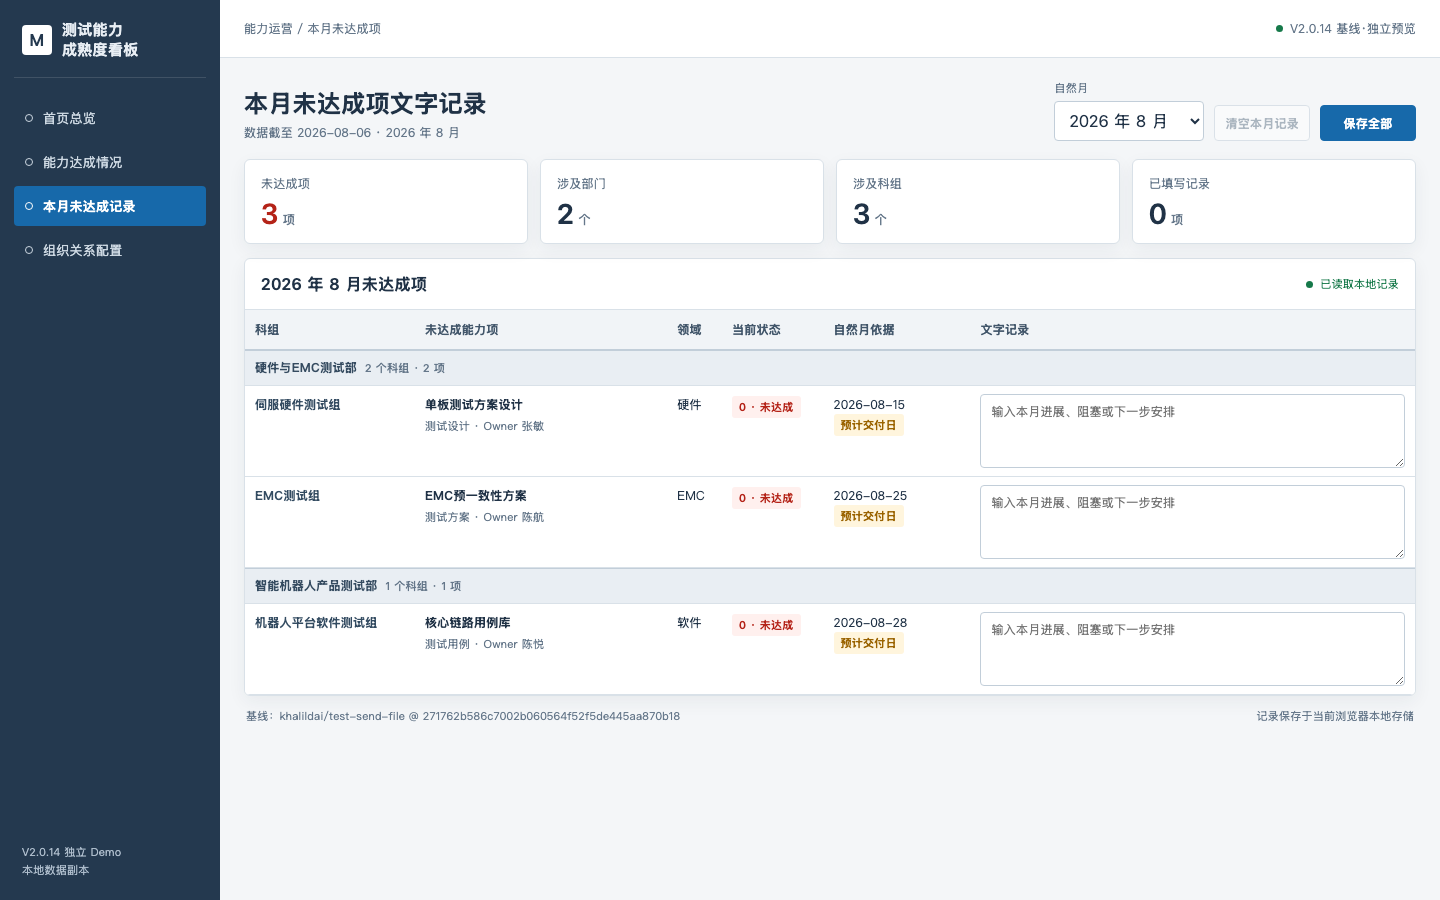
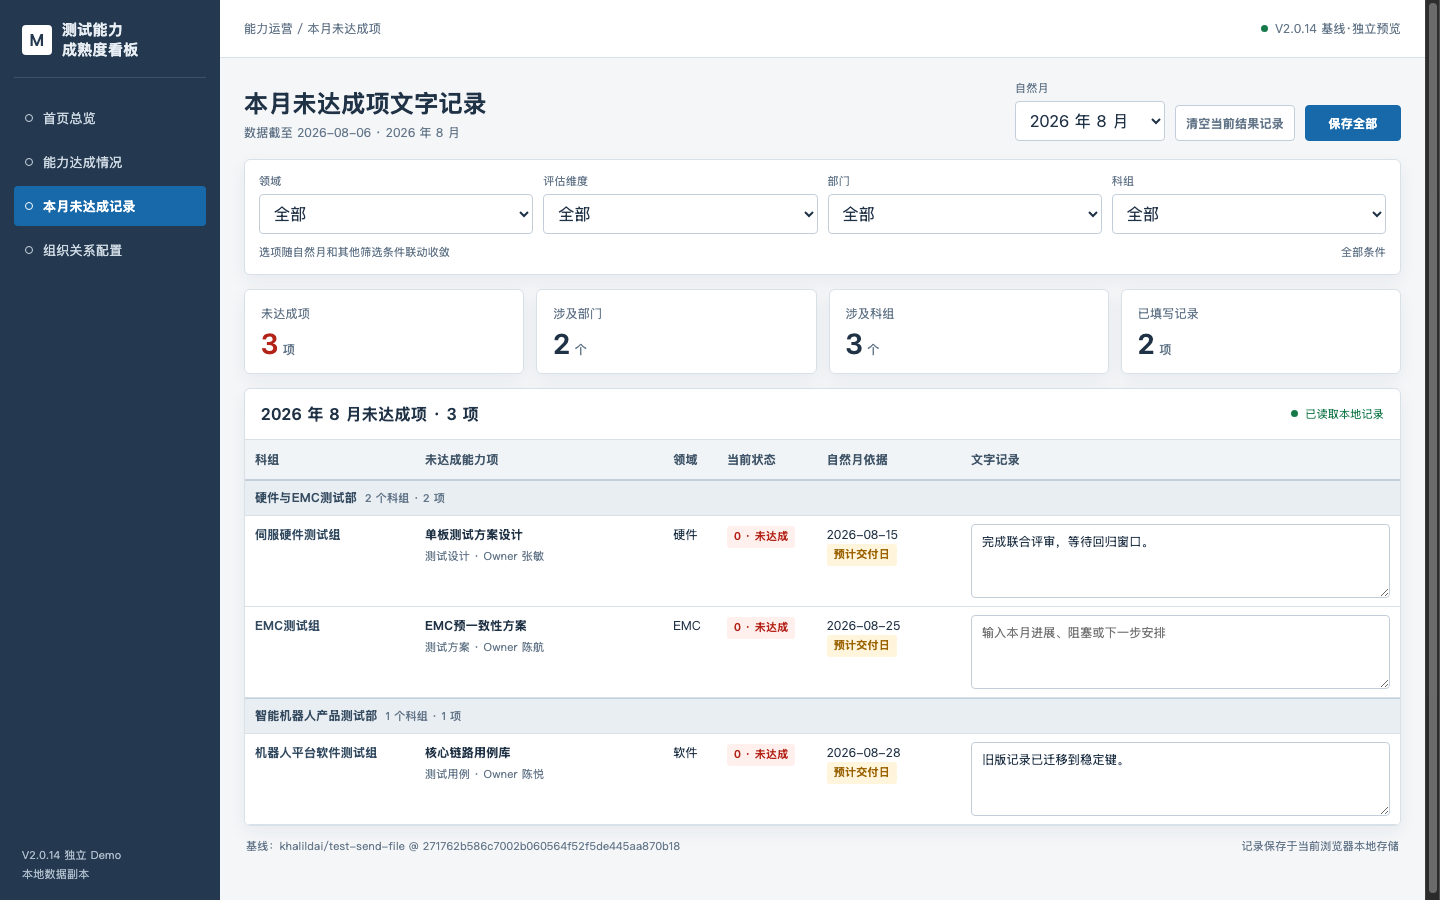
update task20 demo with linked filters

diff --git a/task20-v2014-monthly-gap-demo/V2.0.14-本月未达成项文字记录-demo.html b/task20-v2014-monthly-gap-demo/V2.0.14-本月未达成项文字记录-demo.html
@@ -43,6 +43,9 @@
     .btn.primary{background:var(--blue);border-color:var(--blue);color:#fff;min-width:96px}
     .btn.ghost{background:#fff;color:var(--muted)}
     .btn:disabled{cursor:not-allowed;opacity:.5}
+    .filters{display:grid;grid-template-columns:repeat(4,minmax(0,1fr));gap:10px;margin-bottom:14px;padding:13px 14px;background:var(--panel);border:1px solid var(--line);border-radius:6px;box-shadow:var(--shadow)}
+    .filters .field select{width:100%;min-width:0}
+    .filters-note{grid-column:1/-1;display:flex;justify-content:space-between;gap:12px;color:var(--muted);font-size:11px;line-height:1.5}
     .stats{display:grid;grid-template-columns:repeat(4,minmax(0,1fr));gap:12px;margin-bottom:14px}
     .stat{background:var(--panel);border:1px solid var(--line);border-radius:6px;padding:15px 16px;box-shadow:var(--shadow)}
     .stat-label{font-size:12px;color:var(--muted);margin-bottom:8px}
@@ -82,10 +85,10 @@
     .toast.show{opacity:1;transform:translateY(0)}
     .footer{display:flex;justify-content:space-between;gap:16px;padding:12px 2px;color:var(--muted);font-size:11px}
     @media(max-width:980px){
-      .app{grid-template-columns:68px minmax(0,1fr)}.brand{justify-content:center;padding-inline:0}.brand b,.nav-item span,.sidebar-meta{display:none}.nav-item{justify-content:center}.topbar{padding:0 16px}main{padding:18px 16px 30px}.stats{grid-template-columns:repeat(2,minmax(0,1fr))}.page-head{align-items:flex-start;flex-direction:column}.toolbar{width:100%}
+      .app{grid-template-columns:68px minmax(0,1fr)}.brand{justify-content:center;padding-inline:0}.brand b,.nav-item span,.sidebar-meta{display:none}.nav-item{justify-content:center}.topbar{padding:0 16px}main{padding:18px 16px 30px}.filters{grid-template-columns:repeat(2,minmax(0,1fr))}.stats{grid-template-columns:repeat(2,minmax(0,1fr))}.page-head{align-items:flex-start;flex-direction:column}.toolbar{width:100%}
     }
     @media(max-width:560px){
-      .app{display:block}.sidebar{display:none}.topbar{height:auto;min-height:52px;padding:10px 12px;gap:10px}.version{font-size:11px}main{padding:14px 10px 26px}h1{font-size:20px}.stats{grid-template-columns:1fr 1fr;gap:8px}.stat{padding:12px}.stat-value{font-size:24px}.toolbar{display:grid;grid-template-columns:1fr 1fr}.field{grid-column:1/-1}.field select{width:100%}.btn{width:100%}.card-head{align-items:flex-start;flex-direction:column}.table-wrap{max-height:none;overflow:visible}.table-wrap table,.table-wrap tbody{display:block;width:100%;min-width:0}.table-wrap thead{display:none}.table-wrap tr{display:grid;grid-template-columns:1fr 1fr}.table-wrap td{display:block;min-width:0;width:auto;padding:9px 10px}.table-wrap .department-row{display:block}.table-wrap .department-row td{position:static;width:100%}.table-wrap .team-cell,.table-wrap .capability-cell{min-height:68px}.table-wrap .note-cell{grid-column:1/-1;width:auto;min-width:0}.table-wrap textarea{min-height:88px}.footer{flex-direction:column}
+      .app{display:block}.sidebar{display:none}.topbar{height:auto;min-height:52px;padding:10px 12px;gap:10px}.version{font-size:11px}main{padding:14px 10px 26px}h1{font-size:20px}.filters{grid-template-columns:1fr;padding:12px}.filters-note{display:grid;gap:3px}.stats{grid-template-columns:1fr 1fr;gap:8px}.stat{padding:12px}.stat-value{font-size:24px}.toolbar{display:grid;grid-template-columns:1fr 1fr}.toolbar .field{grid-column:1/-1}.field select{width:100%}.btn{width:100%}.card-head{align-items:flex-start;flex-direction:column}.table-wrap{max-height:none;overflow:visible}.table-wrap table,.table-wrap tbody{display:block;width:100%;min-width:0}.table-wrap thead{display:none}.table-wrap tr{display:grid;grid-template-columns:1fr 1fr}.table-wrap td{display:block;min-width:0;width:auto;padding:9px 10px}.table-wrap .department-row{display:block}.table-wrap .department-row td{position:static;width:100%}.table-wrap .team-cell,.table-wrap .capability-cell{min-height:68px}.table-wrap .note-cell{grid-column:1/-1;width:auto;min-width:0}.table-wrap textarea{min-height:88px}.footer{flex-direction:column}
     }
   </style>
 </head>
@@ -119,9 +122,17 @@
               <label for="monthSelect">自然月</label>
               <select id="monthSelect" aria-label="选择自然月"></select>
             </div>
-            <button type="button" class="btn ghost" id="clearButton">清空本月记录</button>
+            <button type="button" class="btn ghost" id="clearButton">清空当前结果记录</button>
             <button type="button" class="btn primary" id="saveButton">保存全部</button>
           </div>
+        </section>
+
+        <section class="filters" aria-label="未达成项联动筛选">
+          <div class="field"><label for="domainFilter">领域</label><select id="domainFilter" data-filter="domain"></select></div>
+          <div class="field"><label for="dimensionFilter">评估维度</label><select id="dimensionFilter" data-filter="dimension"></select></div>
+          <div class="field"><label for="departmentFilter">部门</label><select id="departmentFilter" data-filter="dept"></select></div>
+          <div class="field"><label for="teamFilter">科组</label><select id="teamFilter" data-filter="team"></select></div>
+          <div class="filters-note"><span>选项随自然月和其他筛选条件联动收敛</span><span id="filterSummary">全部条件</span></div>
         </section>
 
         <section class="stats" aria-label="本月概览">
@@ -175,11 +186,19 @@
       ]
     };
 
-    const STORAGE_KEY = 'v2014-task20-monthly-gap-notes-v1';
+    const STORAGE_KEY = 'v2014-task20-monthly-gap-notes-v2';
+    const LEGACY_STORAGE_KEY = 'v2014-task20-monthly-gap-notes-v1';
+    const FILTER_FIELDS = [
+      {key:'domain',label:'领域',elementId:'domainFilter'},
+      {key:'dimension',label:'评估维度',elementId:'dimensionFilter'},
+      {key:'dept',label:'部门',elementId:'departmentFilter'},
+      {key:'team',label:'科组',elementId:'teamFilter'}
+    ];
     const DEFAULT_MONTH = BASELINE.asOf.slice(0, 7);
     let selectedMonth = DEFAULT_MONTH;
-    let savedNotes = readNotes();
-    let draftNotes = structuredCloneSafe(savedNotes);
+    let filters = {domain:'all',dimension:'all',dept:'all',team:'all'};
+    let savedNotes;
+    let draftNotes;
     let dirty = false;
     let toastTimer = null;
 
@@ -191,19 +210,53 @@
     };
     const plannedNaturalMonth = item => item.plannedMonth ? `${BASELINE.asOf.slice(0,4)}-${String(item.plannedMonth).padStart(2,'0')}` : String(item.due || '').slice(0,7);
     const extractionSource = item => item.plannedMonth ? '计划月份' : '预计交付日';
-    const noteKey = item => `${selectedMonth}::${item.id}`;
+    const stableIdentity = item => [item.domain,item.owner,item.dimension,item.sub,item.team]
+      .map(value => encodeURIComponent(String(value ?? '').trim())).join('|');
+    const noteKey = (item, month = selectedMonth) => `${month}::${stableIdentity(item)}`;
+    savedNotes = readNotes();
+    draftNotes = structuredCloneSafe(savedNotes);
 
     function structuredCloneSafe(value){return JSON.parse(JSON.stringify(value || {}))}
     function readNotes(){
       try{
         const parsed = JSON.parse(localStorage.getItem(STORAGE_KEY) || '{}');
-        return parsed && parsed.schemaVersion === 1 && parsed.notes && typeof parsed.notes === 'object' ? parsed.notes : {};
+        if(parsed && parsed.schemaVersion === 2 && parsed.notes && typeof parsed.notes === 'object') return parsed.notes;
+        const legacy = JSON.parse(localStorage.getItem(LEGACY_STORAGE_KEY) || '{}');
+        if(!legacy || legacy.schemaVersion !== 1 || !legacy.notes || typeof legacy.notes !== 'object') return {};
+        return Object.entries(legacy.notes).reduce((notes,[key,value]) => {
+          const splitAt = key.lastIndexOf('::');
+          const month = key.slice(0,splitAt);
+          const item = BASELINE.capabilities.find(candidate => String(candidate.id) === key.slice(splitAt + 2));
+          if(splitAt > 0 && item) notes[noteKey(item,month)] = value;
+          return notes;
+        },{});
       }catch(error){return {}}
     }
-    function monthItems(){
+    function baseMonthItems(){
       return BASELINE.capabilities
         .filter(item => Number(item.achieved) === 0 && plannedNaturalMonth(item) === selectedMonth)
         .sort((a,b) => a.dept.localeCompare(b.dept,'zh-CN') || a.team.localeCompare(b.team,'zh-CN') || a.sub.localeCompare(b.sub,'zh-CN'));
+    }
+    function matchesFilters(item,excludedField = null){
+      return FILTER_FIELDS.every(({key}) => key === excludedField || filters[key] === 'all' || item[key] === filters[key]);
+    }
+    function filteredItems(excludedField = null){
+      return baseMonthItems().filter(item => matchesFilters(item,excludedField));
+    }
+    function availableValues(field){
+      return [...new Set(filteredItems(field).map(item => item[field]))].sort((a,b) => a.localeCompare(b,'zh-CN'));
+    }
+    function normalizeFilters(){
+      let changed = true;
+      while(changed){
+        changed = false;
+        FILTER_FIELDS.forEach(({key}) => {
+          if(filters[key] !== 'all' && !availableValues(key).includes(filters[key])){
+            filters[key] = 'all';
+            changed = true;
+          }
+        });
+      }
     }
     function monthOptions(){
       const years = new Set(BASELINE.capabilities.map(item => String(item.due || '').slice(0,4)).filter(Boolean));
@@ -228,7 +281,7 @@
       updateStats();
     }
     function updateStats(){
-      const items = monthItems();
+      const items = filteredItems();
       $('itemCount').textContent = items.length;
       $('departmentCount').textContent = new Set(items.map(item => item.dept)).size;
       $('teamCount').textContent = new Set(items.map(item => item.team)).size;
@@ -238,13 +291,28 @@
       $('monthSelect').innerHTML = monthOptions().map(value => `<option value="${value}">${monthLabel(value)}</option>`).join('');
       $('monthSelect').value = selectedMonth;
     }
+    function renderFilters(){
+      normalizeFilters();
+      FILTER_FIELDS.forEach(({key,elementId}) => {
+        const select = $(elementId);
+        const values = availableValues(key);
+        select.innerHTML = `<option value="all">全部</option>` + values.map(value => `<option value="${esc(value)}">${esc(value)}</option>`).join('');
+        select.value = filters[key];
+      });
+      const active = FILTER_FIELDS.filter(({key}) => filters[key] !== 'all');
+      $('filterSummary').textContent = active.length
+        ? active.map(({key,label}) => `${label}：${filters[key]}`).join(' · ')
+        : '全部条件';
+    }
     function renderTable(){
-      const items = monthItems();
+      renderFilters();
+      const items = filteredItems();
       $('periodSubtitle').textContent = `数据截至 ${BASELINE.asOf} · ${monthLabel(selectedMonth)}`;
-      $('tableTitle').textContent = `${monthLabel(selectedMonth)}未达成项`;
+      $('tableTitle').textContent = `${monthLabel(selectedMonth)}未达成项 · ${items.length} 项`;
       $('clearButton').disabled = !items.some(item => String(draftNotes[noteKey(item)] || '').trim());
       if(!items.length){
-        $('tableWrap').innerHTML = `<div class="empty"><div><strong>当前自然月无未达成项</strong><span>${monthLabel(selectedMonth)}</span></div></div>`;
+        const hasMonthItems = baseMonthItems().length > 0;
+        $('tableWrap').innerHTML = `<div class="empty"><div><strong>${hasMonthItems ? '没有符合筛选条件的未达成项' : '当前自然月无未达成项'}</strong><span>${monthLabel(selectedMonth)}${hasMonthItems ? ' · 可调整上方筛选条件' : ''}</span></div></div>`;
         updateStats();
         return;
       }
@@ -256,13 +324,13 @@
       const rows = [...departments.entries()].map(([department, departmentItems]) => {
         const teams = new Set(departmentItems.map(item => item.team)).size;
         return `<tr class="department-row"><td colspan="6">${esc(department)}<span class="department-count">${teams} 个科组 · ${departmentItems.length} 项</span></td></tr>` +
-          departmentItems.map(item => `<tr data-item-id="${item.id}">
+          departmentItems.map(item => `<tr data-item-id="${item.id}" data-domain="${esc(item.domain)}" data-dimension="${esc(item.dimension)}" data-dept="${esc(item.dept)}" data-team="${esc(item.team)}">
             <td class="team-cell">${esc(item.team)}</td>
             <td class="capability-cell"><b>${esc(item.sub)}</b><span class="meta">${esc(item.dimension)} · Owner ${esc(item.owner)}</span></td>
             <td>${esc(item.domain)}</td>
             <td><span class="tag todo">0 · 未达成</span></td>
             <td class="date-cell">${esc(item.due || '—')}<br><span class="tag source" title="自然月提取依据">${extractionSource(item)}</span></td>
-            <td class="note-cell"><textarea data-note-id="${item.id}" maxlength="800" placeholder="输入本月进展、阻塞或下一步安排">${esc(draftNotes[noteKey(item)] || '')}</textarea></td>
+            <td class="note-cell"><textarea data-note-id="${item.id}" data-note-key="${esc(noteKey(item))}" maxlength="800" placeholder="输入本月进展、阻塞或下一步安排">${esc(draftNotes[noteKey(item)] || '')}</textarea></td>
           </tr>`).join('');
       }).join('');
       $('tableWrap').innerHTML = `<table>
@@ -271,7 +339,7 @@
       </table>`;
       document.querySelectorAll('textarea[data-note-id]').forEach(textarea => {
         textarea.addEventListener('input', event => {
-          draftNotes[`${selectedMonth}::${event.target.dataset.noteId}`] = event.target.value;
+          draftNotes[event.target.dataset.noteKey] = event.target.value;
           markDirty();
           $('clearButton').disabled = false;
         });
@@ -281,7 +349,7 @@
     function saveAll(){
       const savedAt = new Date().toISOString();
       try{
-        localStorage.setItem(STORAGE_KEY, JSON.stringify({schemaVersion:1,sourceCommit:BASELINE.sourceCommit,savedAt,notes:draftNotes}));
+        localStorage.setItem(STORAGE_KEY, JSON.stringify({schemaVersion:2,sourceCommit:BASELINE.sourceCommit,savedAt,identityFields:['domain','owner','dimension','sub','team'],notes:draftNotes}));
         savedNotes = structuredCloneSafe(draftNotes);
         dirty = false;
         setSaveState('saved',`已保存 · ${new Date().toLocaleTimeString('zh-CN',{hour:'2-digit',minute:'2-digit',second:'2-digit'})}`);
@@ -291,9 +359,9 @@
         showToast('保存失败，请检查浏览器本地存储权限');
       }
     }
-    function clearCurrentMonth(){
-      const items = monthItems();
-      if(!items.length || !confirm(`清空 ${monthLabel(selectedMonth)} 的全部文字记录？`)) return;
+    function clearCurrentResults(){
+      const items = filteredItems();
+      if(!items.length || !confirm(`清空当前 ${items.length} 项筛选结果的文字记录？`)) return;
       items.forEach(item => delete draftNotes[noteKey(item)]);
       markDirty();
       renderTable();
@@ -306,13 +374,22 @@
       draftNotes = structuredCloneSafe(savedNotes);
       dirty = false;
       selectedMonth = nextMonth;
+      filters = {domain:'all',dimension:'all',dept:'all',team:'all'};
       setSaveState('saved','已读取本地记录');
       renderTable();
     }
 
+    function switchFilter(field,value){
+      filters[field] = value;
+      renderTable();
+    }
+
     $('saveButton').addEventListener('click', saveAll);
-    $('clearButton').addEventListener('click', clearCurrentMonth);
+    $('clearButton').addEventListener('click', clearCurrentResults);
     $('monthSelect').addEventListener('change', event => switchMonth(event.target.value));
+    document.querySelectorAll('select[data-filter]').forEach(select => {
+      select.addEventListener('change', event => switchFilter(event.target.dataset.filter,event.target.value));
+    });
     window.addEventListener('beforeunload', event => {
       if(!dirty) return;
       event.preventDefault();

diff --git a/task20-v2014-monthly-gap-demo/evidence/verification-summary.md b/task20-v2014-monthly-gap-demo/evidence/verification-summary.md
@@ -13,16 +13,26 @@
 
 Automated by `node scripts/verify-demo.mjs` against the standalone `file://` URL.
 
-1. Direct local-file opening: passed
-2. August 2026 natural-month extraction: 3 unmet items, passed
-3. Department to team hierarchy: 2 departments / 3 teams, passed
-4. Right-side editable text boxes: 3, passed
-5. Explicit browser-local save and visible feedback: passed
-6. Reload restores the saved note: passed
-7. September natural-month switch: 3 unmet items / 2 departments / 3 teams, passed
-8. Desktop 1440 x 900 containment: passed
-9. Mobile 390 x 844 containment and text-field visibility: passed
-10. Browser console/runtime errors: 0
+1. Direct local-file opening and August extraction: 3 unmet items, passed
+2. Department to team hierarchy: 2 departments / 3 teams, passed
+3. All four filters default to `全部`: passed
+4. Desktop 1440 x 900 containment and editable text boxes: passed
+5. Domain filter: passed
+6. Evaluation-dimension filter: passed
+7. Department filter: passed
+8. Options narrow from the selected month and the other active filters: passed
+9. Team filter: passed
+10. Combined filters apply all active conditions: passed
+11. Legacy numeric note key migrates to stable identity in memory: passed
+12. Saved note keys use month + domain/owner/dimension/sub-dimension/team identity: passed
+13. Filter switching retains the note: passed
+14. Reload restores stable-key notes: passed
+15. September switch remains restricted to unmet items: 3 items / 2 departments / 3 teams, passed
+16. Empty-result month and `全部`-only filter options: passed
+17. Mobile 390 x 844 containment for filters, controls, and text boxes: passed
+18. Browser console/runtime errors: 0
+
+The note store remains browser-local only (`localStorage`, schema v2). No multiplayer sharing or conflict handling is included.
 
 Machine-readable details: `verification.json`.
 
